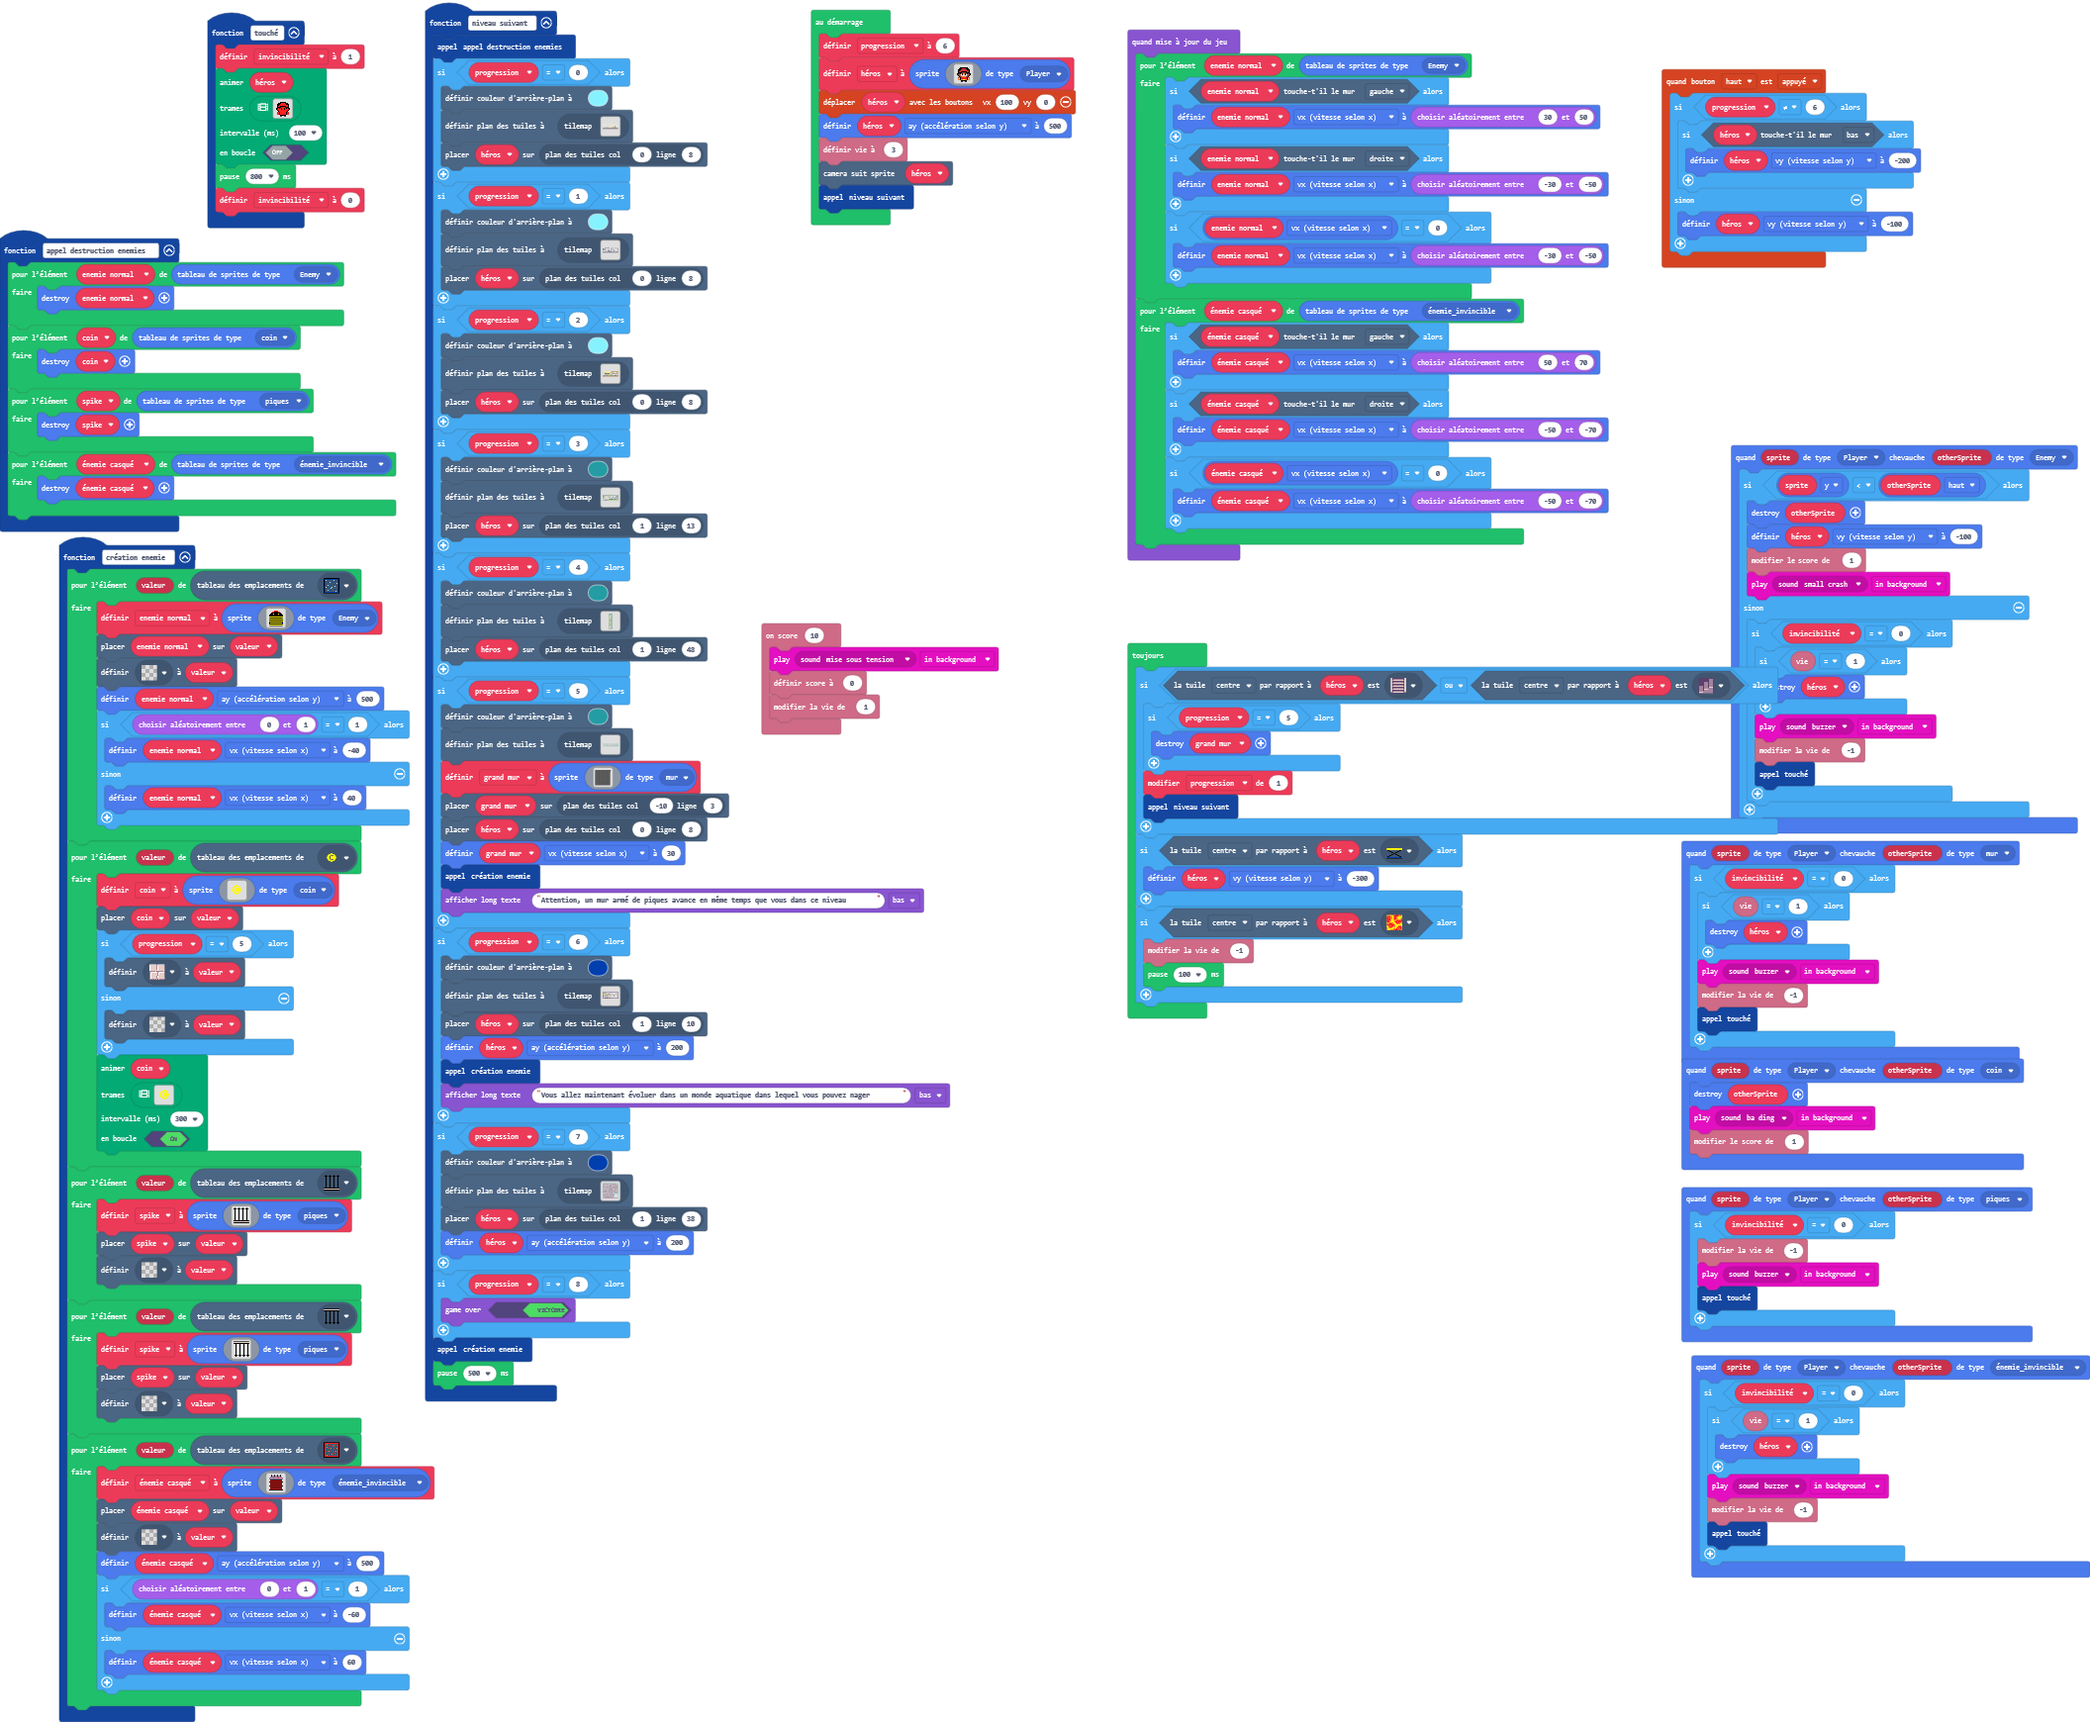
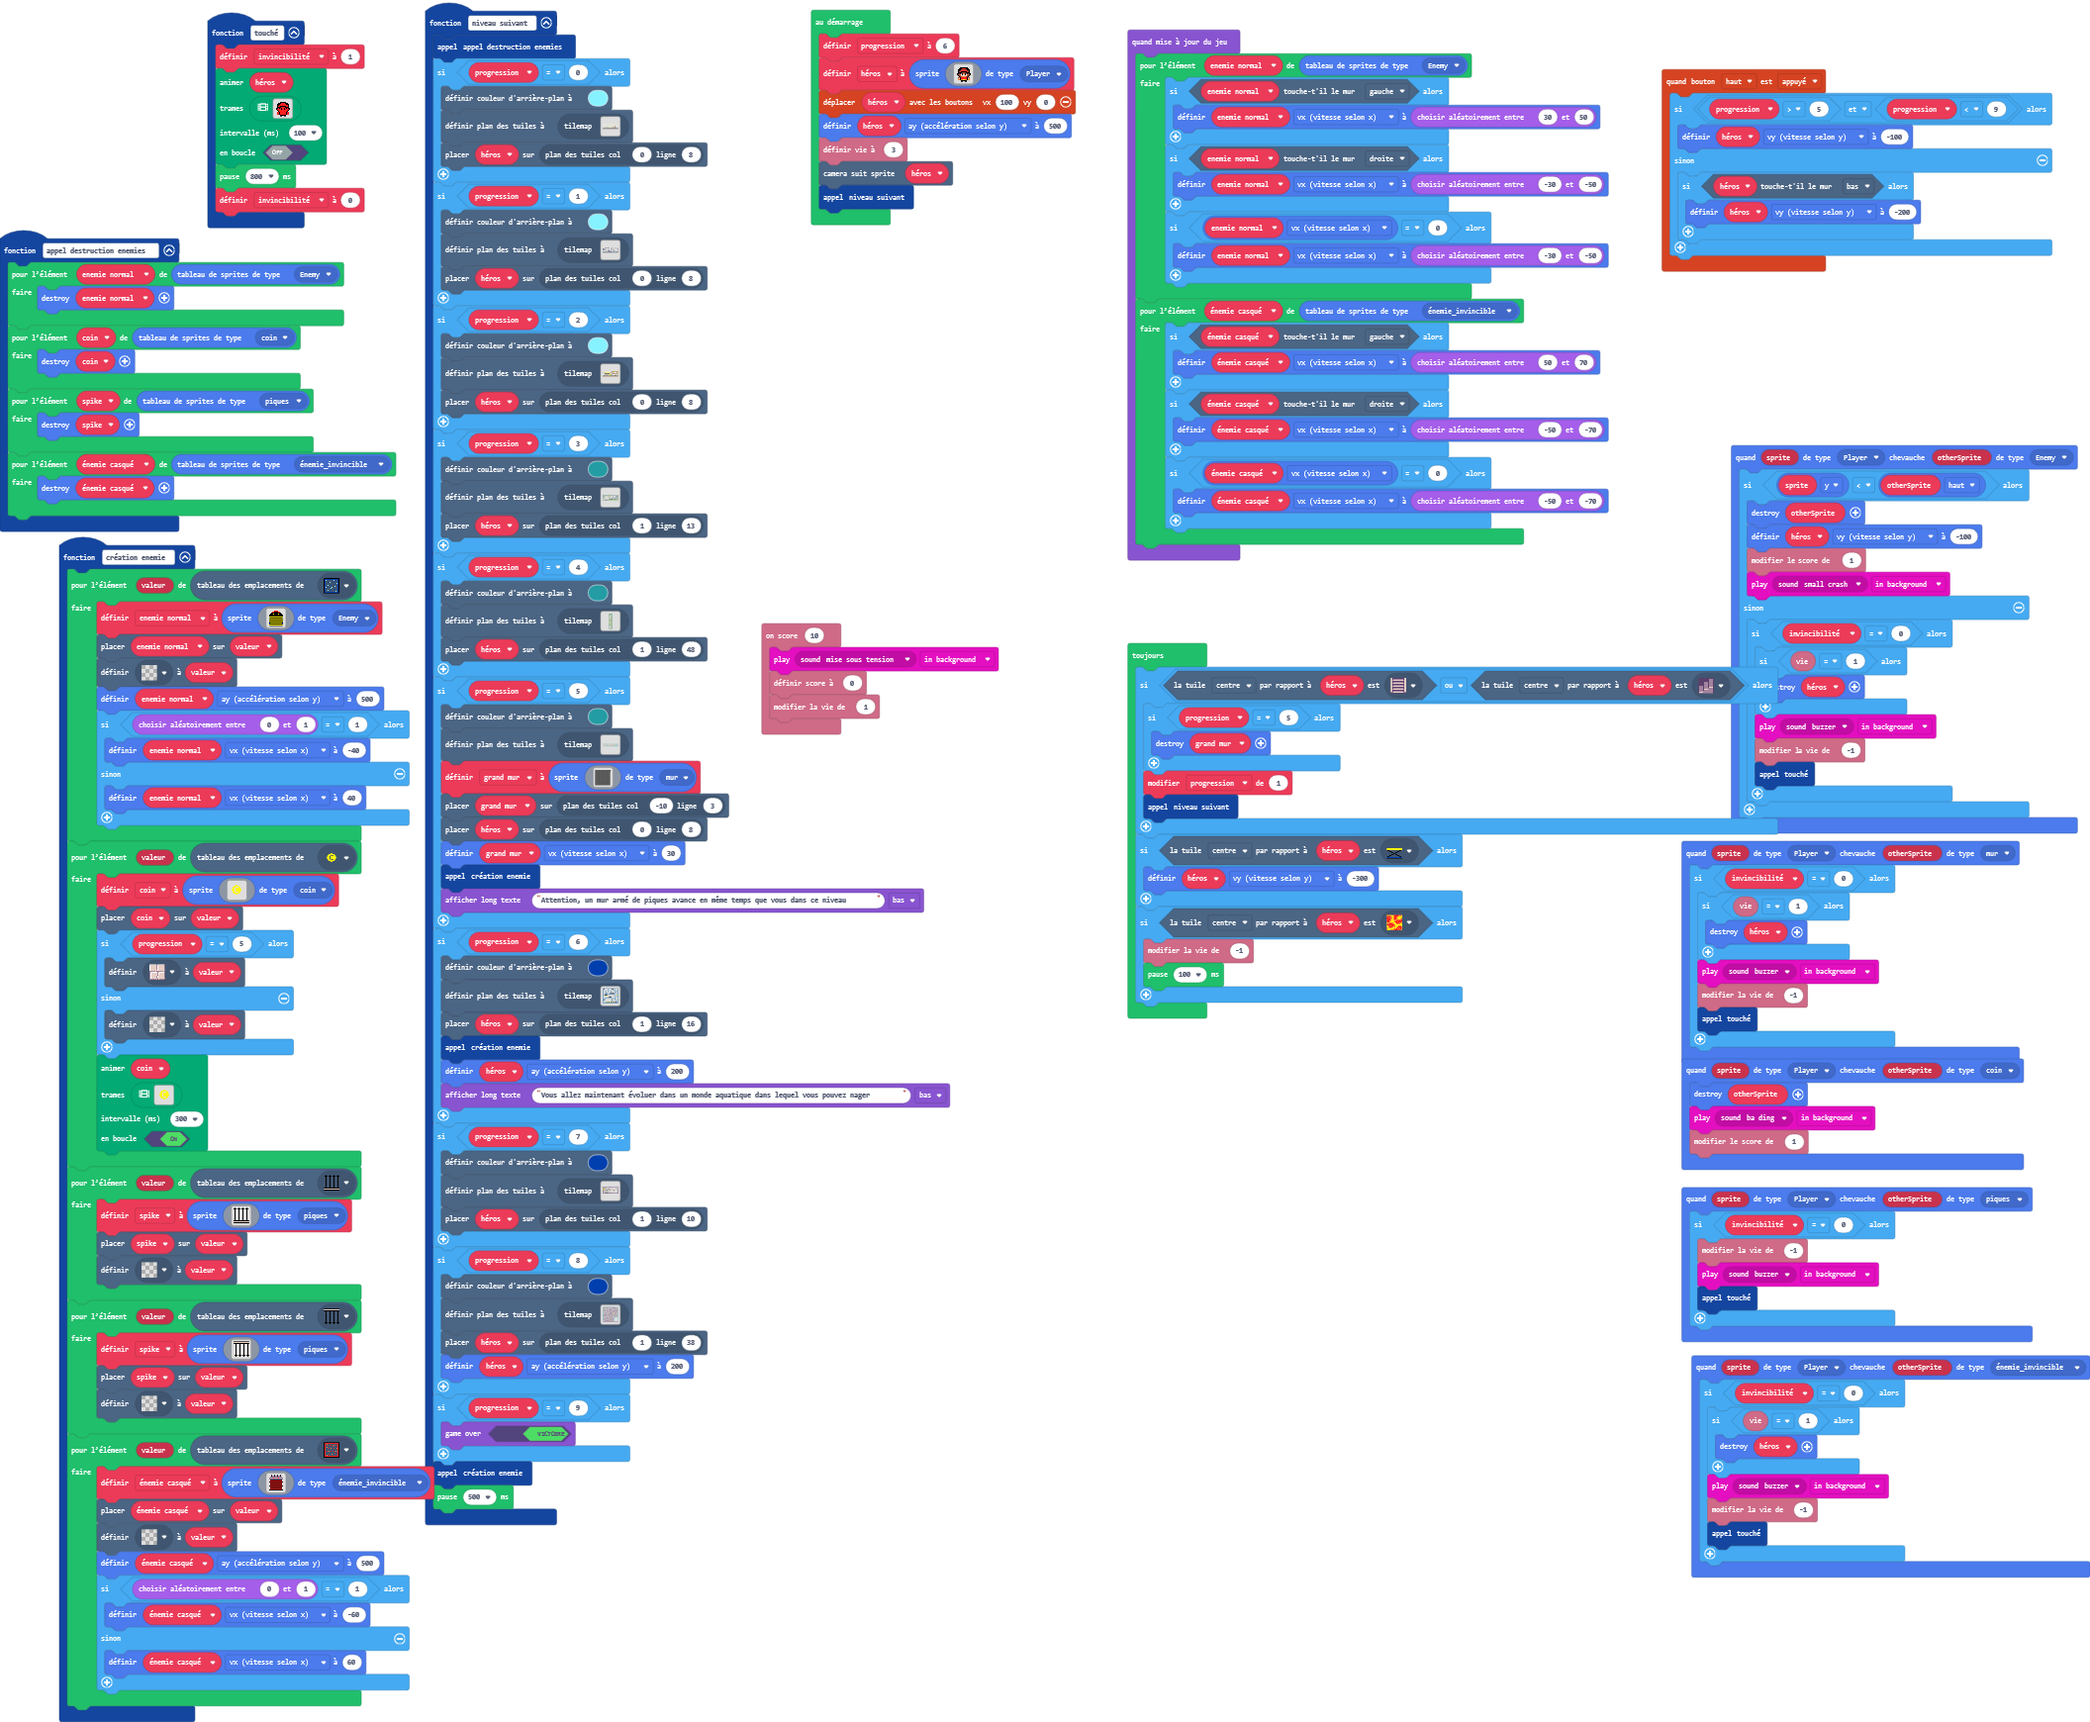
Mise à jour main.blocks, main.ts, tilemap.g.jres, tilemap.g.ts

Changed region(s): [[0.1875, 0.7138, 0.3438, 0.9], [0.7812, 0.031, 1.0, 0.1552], [0.1875, 0.5897, 0.3438, 0.6517]]

diff --git a/tilemap.g.ts b/tilemap.g.ts
@@ -22,28 +22,13 @@ namespace myTiles {
     export const tile9 = image.ofBuffer(hex``);
     //% fixedInstance jres blockIdentity=images._tile
     export const tile10 = image.ofBuffer(hex``);
+    //% fixedInstance jres blockIdentity=images._tile
+    export const tile11 = image.ofBuffer(hex``);
+    //% fixedInstance jres blockIdentity=images._tile
+    export const tile12 = image.ofBuffer(hex``);
 
     helpers._registerFactory("tilemap", function(name: string) {
         switch(helpers.stringTrim(name)) {
-            case "niveau9":
-            case "niveau9":return tiles.createTilemap(hex`1000100000000000000000000000000000000000000000000000000000000000000000000000000000000000000000000000000000000000000000000000000000000000000000000000000000000000000000000000000000000000000000000000000000000000000000000000000000000000000000000000000000000000000000000000000000000000000000000000000000000000000000000000000000000000000000000000000000000000000000000000000000000000000000000000000000000000000000000000000000000000000000000000000000000000000000000000000000000000000000000000000000000000000000000000000000000000`, img`
-. . . . . . . . . . . . . . . . 
-. . . . . . . . . . . . . . . . 
-. . . . . . . . . . . . . . . . 
-. . . . . . . . . . . . . . . . 
-. . . . . . . . . . . . . . . . 
-. . . . . . . . . . . . . . . . 
-. . . . . . . . . . . . . . . . 
-. . . . . . . . . . . . . . . . 
-. . . . . . . . . . . . . . . . 
-. . . . . . . . . . . . . . . . 
-. . . . . . . . . . . . . . . . 
-. . . . . . . . . . . . . . . . 
-. . . . . . . . . . . . . . . . 
-. . . . . . . . . . . . . . . . 
-. . . . . . . . . . . . . . . . 
-. . . . . . . . . . . . . . . . 
-`, [myTiles.transparency16], TileScale.Sixteen);
             case "niveau10":
             case "niveau10":return tiles.createTilemap(hex`1000100000000000000000000000000000000000000000000000000000000000000000000000000000000000000000000000000000000000000000000000000000000000000000000000000000000000000000000000000000000000000000000000000000000000000000000000000000000000000000000000000000000000000000000000000000000000000000000000000000000000000000000000000000000000000000000000000000000000000000000000000000000000000000000000000000000000000000000000000000000000000000000000000000000000000000000000000000000000000000000000000000000000000000000000000000000000`, img`
 . . . . . . . . . . . . . . . . 
@@ -476,7 +461,26 @@ namespace myTiles {
 . . . . . . . . . . . . . . . . 
 . . . . . . . . . . . . . . . . 
 `, [myTiles.transparency16], TileScale.Sixteen);
-            case "monde3-1":
+            case "niveau8":
+            case "niveau8":return tiles.createTilemap(hex`1000100000000000000000000000000000000000000000000000000000000000000000000000000000000000000000000000000000000000000000000000000000000000000000000000000000000000000000000000000000000000000000000000000000000000000000000000000000000000000000000000000000000000000000000000000000000000000000000000000000000000000000000000000000000000000000000000000000000000000000000000000000000000000000000000000000000000000000000000000000000000000000000000000000000000000000000000000000000000000000000000000000000000000000000000000000000000`, img`
+. . . . . . . . . . . . . . . . 
+. . . . . . . . . . . . . . . . 
+. . . . . . . . . . . . . . . . 
+. . . . . . . . . . . . . . . . 
+. . . . . . . . . . . . . . . . 
+. . . . . . . . . . . . . . . . 
+. . . . . . . . . . . . . . . . 
+. . . . . . . . . . . . . . . . 
+. . . . . . . . . . . . . . . . 
+. . . . . . . . . . . . . . . . 
+. . . . . . . . . . . . . . . . 
+. . . . . . . . . . . . . . . . 
+. . . . . . . . . . . . . . . . 
+. . . . . . . . . . . . . . . . 
+. . . . . . . . . . . . . . . . 
+. . . . . . . . . . . . . . . . 
+`, [myTiles.transparency16], TileScale.Sixteen);
+            case "monde3-2":
[1 lines of base64/hex data omitted]
 222222222222222222222222222222
 22.2.2.2..............2......2
@@ -491,6 +495,27 @@ namespace myTiles {
 2.22.......2.2.........2.....2
 222222222222222222222222222222
 `, [myTiles.transparency16,myTiles.tile3,sprites.dungeon.darkGroundNorthWest1,myTiles.tile10,sprites.builtin.brick,myTiles.tile6,myTiles.tile8,sprites.dungeon.stairNorth], TileScale.Sixteen);
+            case "monde3-1":
+            case "niveau9":return tiles.createTilemap(hex`12001200060606060606060606060606060606060606060500000000060000000505060000000006060000000000060000000000060006000006060000060000060000060000060006000606060000060000060000060000000006000006060000060000000000060000000006060006060000060200000002060101010006000006060006060606060606060606060600000606060005050500000000000000000600000306060000000300000000000000000006000606060000000000000101010000000006000006060000060606060606060000060006000006060006000000000000000606000006000006060206000000000000000600000606000006060600000000000000000600000000060006060000000000000000000606000000060006060000060302030203020302030406020706060606060606060606060606060606060606`, img`
+222222222222222222
+2.....2.....2....2
+2.....2.....2.2..2
+2..2..2..2..2.2.22
+2..2..2..2....2..2
+2..2.....2....22.2
+2..2.....2....2..2
+2.222222222222..22
+2............2...2
+2.............2.22
+2.............2..2
+2..2222222..2.2..2
+2.2.......22..2..2
+2.2.......2..22..2
+22........2....2.2
+2.........22...2.2
+2..2..........2..2
+222222222222222222
+`, [myTiles.transparency16,myTiles.tile3,myTiles.tile4,myTiles.tile6,myTiles.tile8,myTiles.tile10,myTiles.tile11,sprites.dungeon.stairNorth], TileScale.Sixteen);
         }
         return null;
     })
@@ -518,6 +543,10 @@ namespace myTiles {
             case "tile9":return tile9;
             case "myTile7":
             case "tile10":return tile10;
+            case "myTile8":
+            case "tile11":return tile11;
+            case "myTile9":
+            case "tile12":return tile12;
         }
         return null;
     })

diff --git a/main.ts b/main.ts
@@ -32,12 +32,12 @@ sprites.onOverlap(SpriteKind.Player, SpriteKind.piques, function (sprite, otherS
     }
 })
 controller.up.onEvent(ControllerButtonEvent.Pressed, function () {
-    if (progression != 6) {
+    if (progression > 5 && progression < 9) {
+        héros.vy = -100
+    } else {
         if (héros.isHittingTile(CollisionDirection.Bottom)) {
             héros.vy = -200
         }
-    } else {
-        héros.vy = -100
     }
 })
 sprites.onOverlap(SpriteKind.Player, SpriteKind.énemie_invincible, function (sprite, otherSprite) {
@@ -641,18 +641,23 @@ function niveau_suivant () {
     if (progression == 6) {
         scene.setBackgroundColor(8)
         tiles.setCurrentTilemap(tilemap`monde3-1`)
-        tiles.placeOnTile(héros, tiles.getTileLocation(1, 10))
-        héros.ay = 200
+        tiles.placeOnTile(héros, tiles.getTileLocation(1, 16))
         création_enemie()
+        héros.ay = 200
         game.showLongText("Vous allez maintenant évoluer dans un monde aquatique dans lequel vous pouvez nager", DialogLayout.Bottom)
     }
     if (progression == 7) {
+        scene.setBackgroundColor(8)
+        tiles.setCurrentTilemap(tilemap`monde3-2`)
+        tiles.placeOnTile(héros, tiles.getTileLocation(1, 10))
+    }
+    if (progression == 8) {
         scene.setBackgroundColor(8)
         tiles.setCurrentTilemap(tilemap`monde3-3`)
         tiles.placeOnTile(héros, tiles.getTileLocation(1, 38))
         héros.ay = 200
     }
-    if (progression == 8) {
+    if (progression == 9) {
         game.gameOver(true)
     }
     création_enemie()
